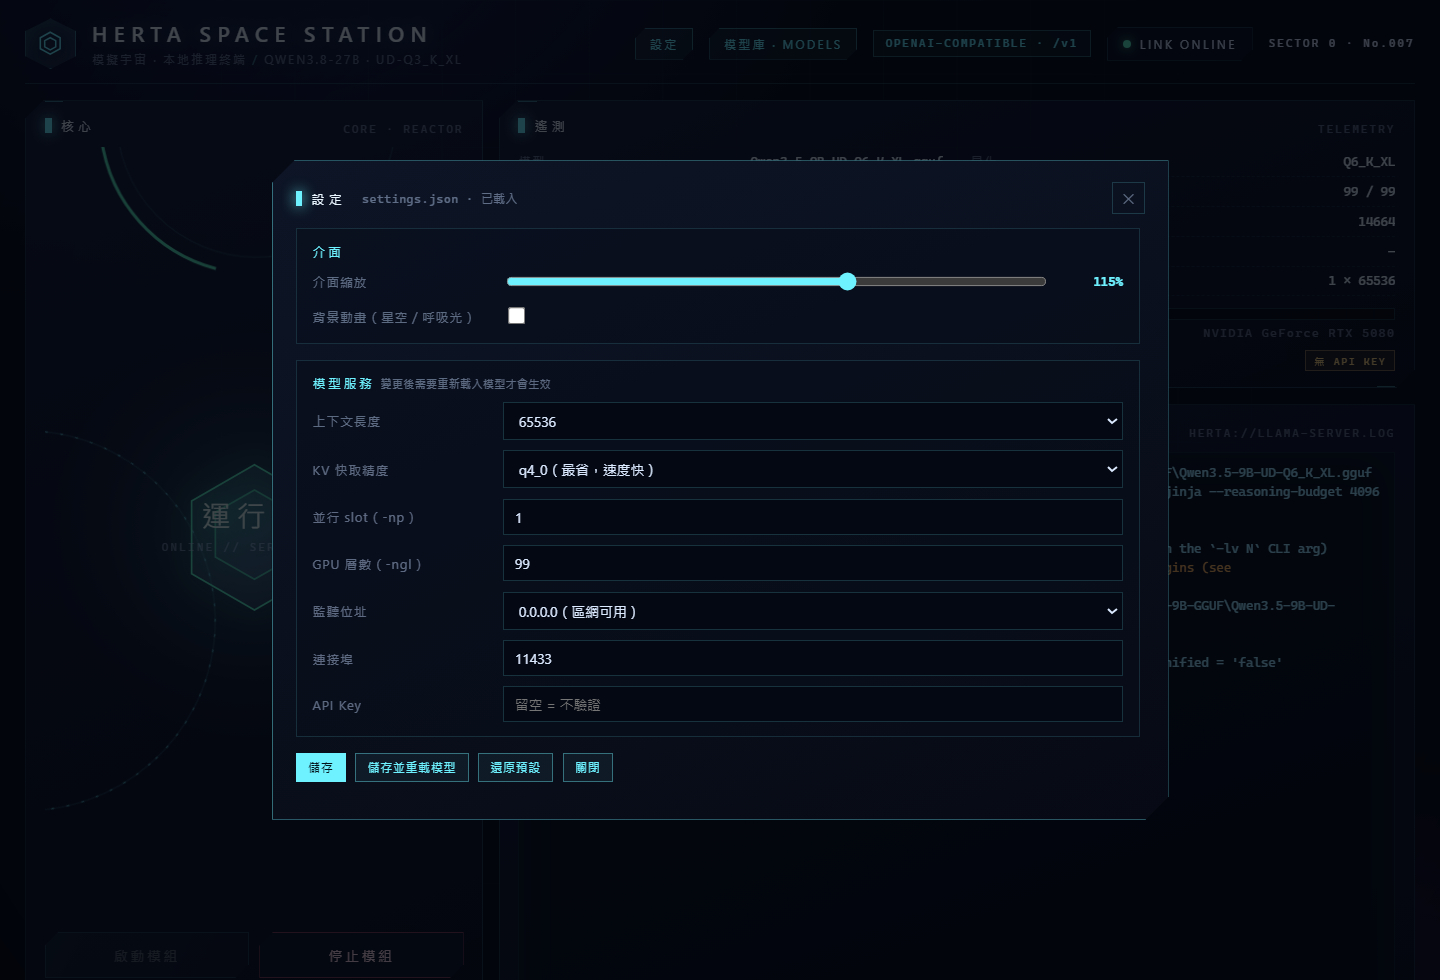
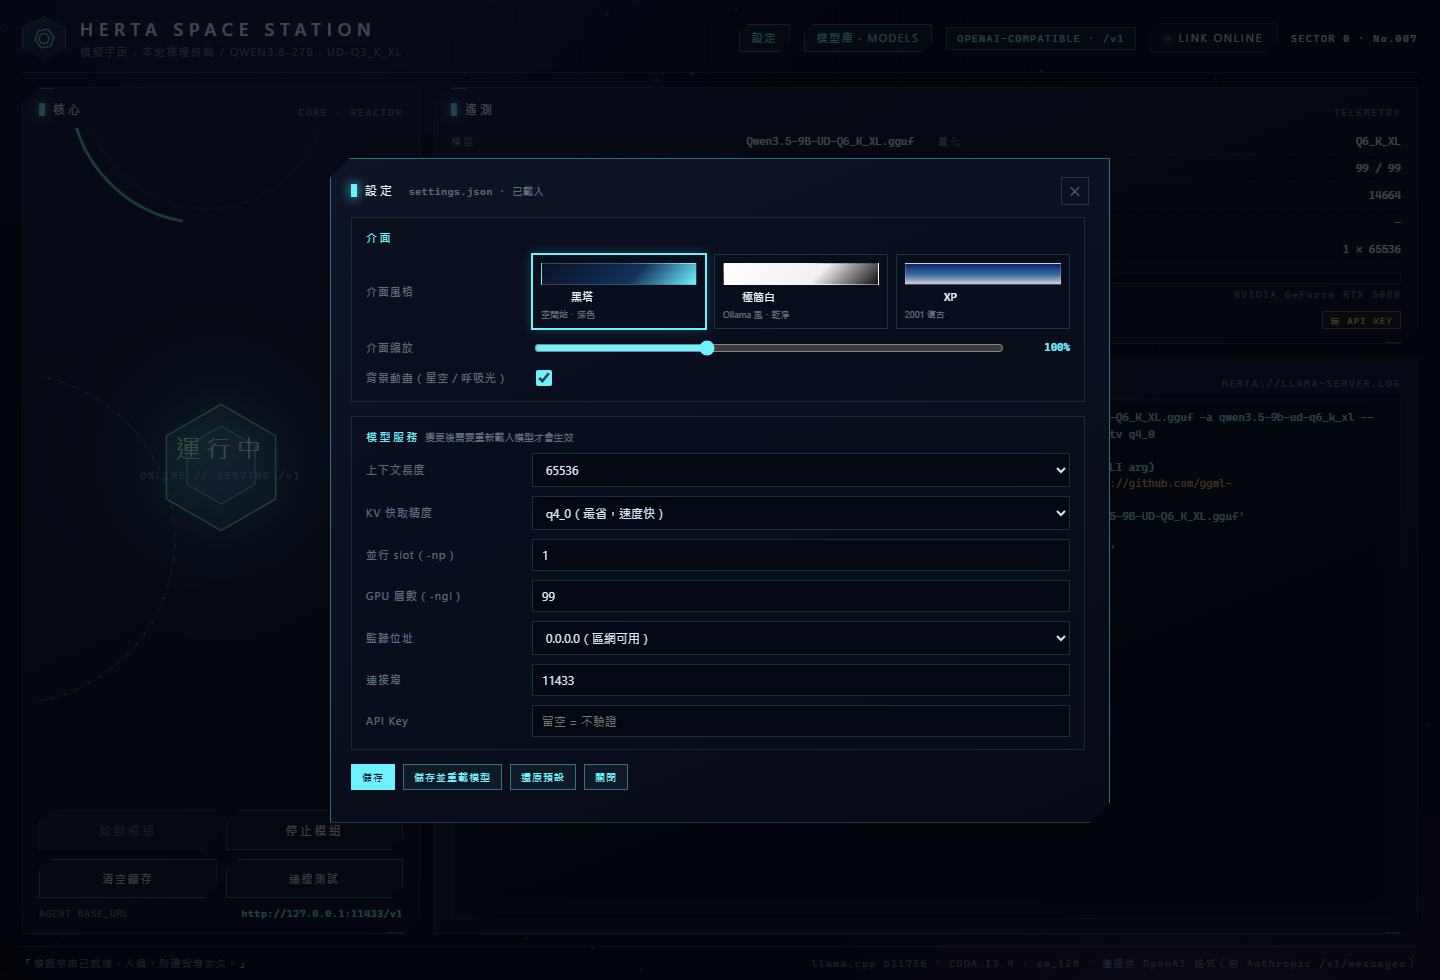
Add UI themes: Herta (default), minimal white (Ollama-like) and Windows XP
- settings.ui.theme persisted and validated (herta | ollama | xp)
- theme picker cards in 設定 → 介面風格, applied live as body classes
- full CSS skin per theme: panels, buttons, tabs, tables, modals, log, chips,
  contrast fixes for the two light skins

diff --git a/ui.html b/ui.html
@@ -1,4 +1,4 @@
-<!doctype html>
+<!doctype html>
 <html lang="zh-Hant">
 <head>
 <meta charset="utf-8">
@@ -288,6 +288,193 @@
   .setrow b{width:52px;text-align:right;color:var(--cyan);font-size:11px}
   .setrow input[type=checkbox]{width:16px;height:16px;accent-color:#6ff2ff}
   .setactions{display:flex;gap:8px;flex-wrap:wrap}
+
+  /* ---------- theme picker ---------- */
+  .themeGrid{display:flex;gap:8px;flex:1}
+  .themeCard{flex:1;display:flex;flex-direction:column;align-items:flex-start;gap:4px;padding:8px;
+    border:1px solid var(--line);background:rgba(8,14,26,.6);cursor:pointer;font-family:inherit}
+  .themeCard b{font-size:11px;color:#eaf7ff;font-weight:500;white-space:nowrap;overflow:hidden;text-overflow:ellipsis;max-width:100%}
+  .themeCard small{font-size:9px;color:var(--dim);white-space:nowrap;overflow:hidden;text-overflow:ellipsis;max-width:100%}
+  .themeCard .sw{width:100%;height:22px;display:block;border:1px solid rgba(255,255,255,.18)}
+  .sw-herta{background:linear-gradient(135deg,#0a1226,#12315c 60%,#6ff2ff)}
+  .sw-ollama{background:linear-gradient(135deg,#ffffff,#f1f1f3 60%,#111111)}
+  .sw-xp{background:linear-gradient(180deg,#0a246a,#3a6ea5 55%,#d4d0c8)}
+  .themeCard.active{outline:1px solid var(--cyan);border-color:var(--cyan);box-shadow:0 0 12px rgba(111,242,255,.25)}
+
+  /* ================= theme: ollama (light, minimal) ================= */
+  body.theme-ollama{background:#f7f7f8;color:#1f2328;font-family:Inter,"Segoe UI",system-ui,sans-serif}
+  body.theme-ollama #stars,body.theme-ollama .grid-overlay,body.theme-ollama .vignette{display:none}
+  body.theme-ollama header{border-bottom:1px solid #e5e5e5}
+  body.theme-ollama h1{color:#111;text-shadow:none;letter-spacing:.18em}
+  body.theme-ollama .brand p,body.theme-ollama .row .k,body.theme-ollama .panel-head .mono,
+  body.theme-ollama .hintline,body.theme-ollama .empty,body.theme-ollama footer,body.theme-ollama .core-label .sub{color:#6b7280}
+  body.theme-ollama .sigil{border-color:#d9d9de;background:#fff;box-shadow:none}
+  body.theme-ollama .panel{background:#fff;border:1px solid #e6e6e9;border-radius:14px;clip-path:none;box-shadow:0 1px 2px rgba(16,24,40,.06)}
+  body.theme-ollama .panel::before,body.theme-ollama .panel::after{display:none}
+  body.theme-ollama .tag{color:#111}
+  body.theme-ollama .tag::before{background:#111;box-shadow:none}
+  body.theme-ollama .badge,body.theme-ollama .libbtn{color:#374151;border-color:#d7d7dc;background:#fafafa}
+  body.theme-ollama .libbtn:hover{background:#f0f0f2;box-shadow:none}
+  body.theme-ollama .btn{background:#fff;border:1px solid #d7d7dc;border-radius:10px;clip-path:none;color:#1f2328}
+  body.theme-ollama .btn:hover:not(:disabled){background:#f5f5f6;box-shadow:none;transform:none}
+  body.theme-ollama .btn.primary{background:#111;border-color:#111;color:#fff}
+  body.theme-ollama .btn.danger{color:#b42318;border-color:#f0c9c5}
+  body.theme-ollama .btn.ghost{color:#374151}
+  body.theme-ollama .row{border-bottom:1px solid #efeff1}
+  body.theme-ollama .row .v{color:#111}
+  body.theme-ollama .vram .bar{background:#f1f1f3;border-color:#e6e6e9}
+  body.theme-ollama .vram .fill{background:linear-gradient(90deg,#111,#666)}
+  body.theme-ollama .vram .ticks{display:none}
+  body.theme-ollama .log{background:#fff;border:1px solid #ececef;color:#374151;box-shadow:none}
+  body.theme-ollama .log .w{color:#b45309}body.theme-ollama .log .e{color:#b42318}body.theme-ollama .log .ok{color:#067647}
+  body.theme-ollama .core-label .state{color:#111;text-shadow:none}
+  body.theme-ollama .core-label .tick{color:#b45309}
+  body.theme-ollama .ring{stroke:#e3e3e8}body.theme-ollama .ring.arc{stroke:#111}body.theme-ollama .ring.arc2{stroke:#9ca3af}
+  body.theme-ollama .ring.dash{stroke:#c9c9d0}
+  body.theme-ollama .hex{stroke:#111;fill:rgba(0,0,0,.02);filter:none}
+  body.theme-ollama .chip .dot{background:#9ca3af}
+  body.theme-ollama .modal{background:rgba(15,23,42,.28)}
+  body.theme-ollama .modal-card{background:#fff;border:1px solid #e6e6e9;clip-path:none;border-radius:16px;box-shadow:0 20px 60px rgba(16,24,40,.18)}
+  body.theme-ollama .modal-head .dir{color:#6b7280}
+  body.theme-ollama .modal-head .x{color:#6b7280;border-color:#e6e6e9}
+  body.theme-ollama .tabs{border-bottom:1px solid #ececef}
+  body.theme-ollama .tab{color:#6b7280;letter-spacing:.12em}
+  body.theme-ollama .tab.active{color:#111;border-color:#111;background:#f3f3f5}
+  body.theme-ollama .chip2{color:#374151;border-color:#dcdce1;background:#fff}
+  body.theme-ollama .chip2.active{color:#fff;background:#111;border-color:#111}
+  body.theme-ollama .searchbar input,body.theme-ollama .setrow input[type=number],
+  body.theme-ollama .setrow input[type=text],body.theme-ollama .setrow select{background:#fff;border-color:#dcdce1;color:#111}
+  body.theme-ollama .mhead{background:#fff;color:#6b7280;border-bottom:1px solid #ececef}
+  body.theme-ollama .mtr{background:#fff;border-color:#ececef}
+  body.theme-ollama .mtr:hover{background:#fafafa;border-color:#dcdce1}
+  body.theme-ollama .c-name{color:#111}body.theme-ollama .c-num{color:#374151}
+  body.theme-ollama .mfit{color:#374151;border-color:#dcdce1}
+  body.theme-ollama .mfit.ok{color:#067647;border-color:#abefc6}
+  body.theme-ollama .mfit.tight{color:#b54708;border-color:#f9dbaf}
+  body.theme-ollama .mfit.over{color:#b42318;border-color:#f0c9c5}
+  body.theme-ollama .mini{color:#1f2328;border-color:#d7d7dc;background:#fff}
+  body.theme-ollama .mini.use{color:#fff;background:#111;border-color:#111}
+  body.theme-ollama .reco{background:#fafafa;border-color:#e6e6e9}
+  body.theme-ollama .reco-head .rt{color:#111}
+  body.theme-ollama .pick{background:#fff;border-color:#e6e6e9}
+  body.theme-ollama .pick.primary{border-color:#111;background:#f7f7f8}
+  body.theme-ollama .pick .tier{color:#6b7280}body.theme-ollama .pick.primary .tier{color:#111}
+  body.theme-ollama .pick b{color:#111}body.theme-ollama .pick span{color:#6b7280}
+  body.theme-ollama .setgroup{background:#fbfbfc;border-color:#ececef}
+  body.theme-ollama .settitle{color:#111}
+  body.theme-ollama .setrow>span{color:#6b7280}
+  body.theme-ollama .toast{background:#fff;border-color:#e6e6e9;color:#111;box-shadow:0 12px 36px rgba(16,24,40,.16)}
+  body.theme-ollama footer{border-top:1px solid #ececef}
+  body.theme-ollama .dlbars{background:#f1f1f3;border-color:#e6e6e9}
+  body.theme-ollama .dlbars>.fill{background:#111}
+  body.theme-ollama .themeCard{border-color:#e6e6e9;background:#fff}
+  body.theme-ollama .themeCard b{color:#111}body.theme-ollama .themeCard small{color:#6b7280}
+  body.theme-ollama .themeCard.active{outline-color:#111;border-color:#111;box-shadow:none}
+
+  /* ================= theme: windows xp ================= */
+  body.theme-xp{background:linear-gradient(180deg,#12408f,#2f6ec4 38%,#5b9bd5);color:#000;
+    font-family:Tahoma,"MS Sans Serif",Arial,sans-serif}
+  body.theme-xp #stars,body.theme-xp .grid-overlay,body.theme-xp .vignette{display:none}
+  body.theme-xp header{border-bottom:2px groove #ffffff}
+  body.theme-xp h1{color:#fff;text-shadow:1px 1px 0 #000;font-size:17px;letter-spacing:.08em}
+  body.theme-xp .brand p,body.theme-xp footer{color:#e8f0ff}
+  body.theme-xp .sigil{background:#d4d0c8;border:2px solid;border-color:#fff #404040 #404040 #fff;clip-path:none;box-shadow:none}
+  body.theme-xp .sigil svg{stroke:#003399;animation:none}
+  body.theme-xp .panel{background:#d4d0c8;border:2px solid;border-color:#fff #404040 #404040 #fff;
+    border-radius:0;clip-path:none;box-shadow:1px 1px 0 #808080}
+  body.theme-xp .panel::before,body.theme-xp .panel::after{display:none}
+  body.theme-xp .panel-head{margin:-14px -16px 10px;padding:4px 8px;background:linear-gradient(180deg,#0a246a,#3a6ea5 70%,#4f8ad8);border-bottom:1px solid #092a63}
+  body.theme-xp .tag{color:#fff;letter-spacing:.12em}
+  body.theme-xp .tag::before{background:#fff;box-shadow:none;width:4px;height:12px}
+  body.theme-xp .panel-head .mono{color:#cfe0ff}
+  body.theme-xp .row{border-bottom:1px dotted #808080}
+  body.theme-xp .row .k,body.theme-xp .row .v{color:#000}
+  body.theme-xp .btn{background:#d4d0c8;border:2px solid;border-color:#fff #404040 #404040 #fff;border-radius:0;
+    clip-path:none;color:#000;font-family:Tahoma;font-size:12px;letter-spacing:0}
+  body.theme-xp .btn:hover:not(:disabled){background:#e4e1db;box-shadow:none;transform:none}
+  body.theme-xp .btn:active:not(:disabled){border-color:#404040 #fff #fff #404040}
+  body.theme-xp .btn.primary{background:#d4d0c8;color:#000;border-color:#fff #404040 #404040 #fff}
+  body.theme-xp .btn.danger{color:#800000}
+  body.theme-xp .btn.ghost{color:#000}
+  body.theme-xp .libbtn{background:#d4d0c8;border:2px solid;border-color:#fff #404040 #404040 #fff;border-radius:0;clip-path:none;color:#000}
+  body.theme-xp .libbtn:hover{box-shadow:none;background:#e4e1db}
+  body.theme-xp .badge{background:#ece9d8;border:1px solid #808080;color:#000}
+  body.theme-xp .chip{background:#ece9d8;border:1px solid #808080;color:#000}
+  body.theme-xp .vram .bar{background:#fff;border:2px inset #808080}
+  body.theme-xp .vram .fill{background:#0a246a}
+  body.theme-xp .vram .ticks{display:none}
+  body.theme-xp .log{background:#fff;color:#000;border:2px inset #808080;font-family:"Courier New",monospace;box-shadow:none}
+  body.theme-xp .log .w{color:#8a4b00}body.theme-xp .log .e{color:#a80000}body.theme-xp .log .ok{color:#006400}
+  body.theme-xp .core-label .state{color:#003399;text-shadow:none}
+  body.theme-xp .core-label .sub,body.theme-xp .core-label .tick{color:#000}
+  body.theme-xp .ring{stroke:#9a9a9a}body.theme-xp .ring.arc{stroke:#0a246a}body.theme-xp .ring.arc2{stroke:#2a5f9e}
+  body.theme-xp .ring.dash{stroke:#666}
+  body.theme-xp .hex{stroke:#003399;fill:#ece9d8;filter:none}
+  body.theme-xp .modal{background:rgba(0,0,0,.35)}
+  body.theme-xp .modal-card{background:#d4d0c8;border:2px solid;border-color:#fff #404040 #404040 #fff;
+    border-radius:0;clip-path:none;box-shadow:2px 2px 0 #000}
+  body.theme-xp .modal-head{margin:-18px -20px 8px;padding:5px 8px;
+    background:linear-gradient(180deg,#0a246a,#3a6ea5 70%,#4f8ad8);color:#fff}
+  body.theme-xp .modal-head .tag{color:#fff}
+  body.theme-xp .modal-head .dir{color:#cfe0ff}
+  body.theme-xp .modal-head .x{background:#d4d0c8;border:2px solid;border-color:#fff #404040 #404040 #fff;color:#000;border-radius:0}
+  body.theme-xp .tabs{border-bottom:1px solid #808080}
+  body.theme-xp .tab{color:#000;border:1px solid transparent;border-radius:0;background:none;letter-spacing:.08em}
+  body.theme-xp .tab.active{background:#ece9d8;border:1px solid #808080;border-bottom-color:#ece9d8}
+  body.theme-xp .chip2{background:#d4d0c8;border:2px solid;border-color:#fff #404040 #404040 #fff;color:#000;border-radius:0}
+  body.theme-xp .chip2.active{background:#0a246a;color:#fff;border-color:#092a63 #6f9bd6 #6f9bd6 #092a63}
+  body.theme-xp .searchbar input,body.theme-xp .setrow input[type=number],
+  body.theme-xp .setrow input[type=text],body.theme-xp .setrow select{background:#fff;border:2px inset #808080;color:#000;border-radius:0}
+  body.theme-xp .mhead{background:#ece9d8;color:#000;border-bottom:1px solid #808080}
+  body.theme-xp .mtr{background:#ece9d8;border:1px solid #9a9a9a}
+  body.theme-xp .mtr:hover{background:#f5f3ea;border-color:#003399}
+  body.theme-xp .c-name,body.theme-xp .c-num{color:#000}
+  body.theme-xp .mfit{background:#fff;border:1px solid #808080;color:#000}
+  body.theme-xp .mini{background:#d4d0c8;border:2px solid;border-color:#fff #404040 #404040 #fff;color:#000;border-radius:0}
+  body.theme-xp .mini.use{background:#0a246a;color:#fff;border-color:#092a63 #6f9bd6 #6f9bd6 #092a63}
+  body.theme-xp .reco{background:#ece9d8;border:2px solid;border-color:#fff #404040 #404040 #fff}
+  body.theme-xp .reco-head .rt{color:#003399}
+  body.theme-xp .pick{background:#fff;border:1px solid #808080}
+  body.theme-xp .pick.primary{background:#fffbe6;border:2px solid #003399}
+  body.theme-xp .pick b{color:#000}body.theme-xp .pick span{color:#444}
+  body.theme-xp .pick .tier,body.theme-xp .pick.primary .tier{color:#003399}
+  body.theme-xp .setgroup{background:#ece9d8;border:2px solid;border-color:#fff #404040 #404040 #fff}
+  body.theme-xp .settitle{color:#003399}
+  body.theme-xp .setrow>span{color:#000}
+  body.theme-xp .toast{background:#ffffe1;border:1px solid #000;color:#000;border-radius:0;box-shadow:2px 2px 0 #808080}
+  body.theme-xp footer{border-top:2px groove #fff}
+  body.theme-xp .dlbars{background:#fff;border:2px inset #808080}
+  body.theme-xp .dlbars>.fill{background:#0a246a}
+  body.theme-xp .themeCard{background:#d4d0c8;border:2px solid;border-color:#fff #404040 #404040 #fff}
+  body.theme-xp .themeCard b{color:#000}body.theme-xp .themeCard small{color:#404040}
+  body.theme-xp .themeCard.active{outline:1px solid #003399;border-color:#003399;box-shadow:none}
+  body.theme-xp .reco-actions .mini,body.theme-xp .setactions .mini{font-family:Tahoma}
+
+  /* shared contrast fixes for the light themes */
+  body.theme-ollama .chip{background:#f3f3f5;border-color:#dcdce1;color:#374151}
+  body.theme-ollama .chip.on .dot{background:#067647;color:#067647}
+  body.theme-ollama .vram .legend{color:#6b7280}
+  body.theme-ollama .vram .legend b{color:#111}
+  body.theme-ollama .hint{color:#6b7280}
+  body.theme-ollama .hint b{color:#111}
+  body.theme-ollama .core-label .sub,body.theme-ollama .core-label .tick{color:#6b7280}
+  body.theme-ollama .keybadge{color:#b45309;border-color:#eadcba}
+  body.theme-ollama .row .k{color:#6b7280}
+
+  body.theme-xp .chip{background:#ece9d8;border:1px solid #808080;color:#000}
+  body.theme-xp .chip .dot{background:#006400;color:#006400}
+  body.theme-xp .vram .legend{color:#000}
+  body.theme-xp .vram .legend b{color:#000}
+  body.theme-xp .hint{color:#000}
+  body.theme-xp .hint b{color:#003399}
+  body.theme-xp .core-label .sub,body.theme-xp .core-label .tick{color:#000}
+  body.theme-xp .keybadge{color:#000;border-color:#808080;background:#ece9d8}
+  body.theme-xp .row .k{color:#000}
+  body.theme-xp .btn:disabled{color:#808080}
+  body.theme-xp .lanrow{color:#000}
+  body.theme-xp .lanrow .lanlabel{color:#003399}
+  body.theme-ollama .lanrow{color:#374151}
+  body.theme-ollama .lanrow .lanlabel{color:#111}
   .mini{font-size:10px;letter-spacing:.1em;padding:5px 10px;cursor:pointer;font-family:inherit;
         color:var(--cyan);border:1px solid rgba(111,242,255,.4);background:rgba(111,242,255,.06)}
   .mini:hover{background:rgba(111,242,255,.16)}
@@ -476,6 +663,13 @@
     <div class="setwrap">
       <div class="setgroup">
         <div class="settitle">介面</div>
+        <div class="setrow"><span>介面風格</span>
+          <div class="themeGrid">
+            <button class="themeCard" data-theme="herta"><i class="sw sw-herta"></i><b>黑塔</b><small>空間站・深色</small></button>
+            <button class="themeCard" data-theme="ollama"><i class="sw sw-ollama"></i><b>極簡白</b><small>Ollama 風・乾淨</small></button>
+            <button class="themeCard" data-theme="xp"><i class="sw sw-xp"></i><b>XP</b><small>2001 復古</small></button>
+          </div>
+        </div>
         <label class="setrow"><span>介面縮放</span>
           <input type="range" id="setScale" min="80" max="135" step="5">
           <b class="mono" id="setScaleVal">100%</b>
@@ -1010,16 +1204,26 @@ buildChips("fQuant", QUANT_BUCKETS, "quant");
 })();
 
 /* ---------- settings ---------- */
-const SET = { current: null, defaults: null };
+const SET = { current: null, defaults: null, theme: "herta" };
+const THEME_IDS = ["herta", "ollama", "xp"];
 
 function applyUi(s) {
   if (!s || !s.ui) return;
+  const t = THEME_IDS.includes(s.ui.theme) ? s.ui.theme : "herta";
+  THEME_IDS.forEach(x => document.body.classList.remove("theme-" + x));
+  document.body.classList.add("theme-" + t);
   document.body.style.zoom = s.ui.scale;
   document.body.classList.toggle("no-anim", !s.ui.animations);
 }
 
+function markThemeCard(theme) {
+  document.querySelectorAll(".themeCard").forEach(c => c.classList.toggle("active", c.dataset.theme === theme));
+}
+
 function fillSettings(s) {
   const ui = s.ui || {}, srv = s.server || {};
+  SET.theme = THEME_IDS.includes(ui.theme) ? ui.theme : "herta";
+  markThemeCard(SET.theme);
   $("setScale").value = Math.round((ui.scale || 1) * 100);
   $("setScaleVal").textContent = Math.round((ui.scale || 1) * 100) + "%";
   $("setAnim").checked = !!ui.animations;
@@ -1045,7 +1249,11 @@ function collectSettings() {
   const sel = $("setCtx").value;
   const ctx = sel === "0" ? parseInt($("setCtxCustom").value || "65536", 10) : parseInt(sel, 10);
   return {
-    ui: { scale: parseInt($("setScale").value, 10) / 100, animations: $("setAnim").checked },
+    ui: {
+      theme: SET.theme,
+      scale: parseInt($("setScale").value, 10) / 100,
+      animations: $("setAnim").checked,
+    },
     server: {
       ctx: ctx,
       ctk: $("setKv").value,
@@ -1105,6 +1313,19 @@ $("setScale").addEventListener("input", e => {
   const v = parseInt(e.target.value, 10);
   $("setScaleVal").textContent = v + "%";
   document.body.style.zoom = v / 100;
+});
+document.querySelectorAll(".themeCard").forEach(card => {
+  card.onclick = () => {
+    SET.theme = card.dataset.theme;
+    markThemeCard(SET.theme);
+    applyUi({
+      ui: {
+        theme: SET.theme,
+        scale: parseInt($("setScale").value, 10) / 100,
+        animations: $("setAnim").checked,
+      },
+    });
+  };
 });
 $("setCtx").addEventListener("change", e => {
   $("setCtxCustom").style.display = e.target.value === "0" ? "" : "none";

diff --git a/settings.py b/settings.py
@@ -18,6 +18,7 @@ SETTINGS_FILE = os.path.join(DATA_DIR, "settings.json")
 
 DEFAULTS = {
     "ui": {
+        "theme": "herta",      # herta | ollama | xp
         "scale": 1.0,          # 0.8 … 1.35, applied as CSS zoom
         "animations": True,    # starfield / pulsing highlights
     },
@@ -35,6 +36,7 @@ DEFAULTS = {
 
 KV_TYPES = {"f16", "q8_0", "q5_1", "q5_0", "q4_1", "q4_0"}
 BINDS = {"0.0.0.0", "127.0.0.1"}
+THEMES = {"herta", "ollama", "xp"}
 
 
 def _merge(base, patch):
@@ -64,7 +66,8 @@ def validate(data):
         scale = float(ui.get("scale", DEFAULTS["ui"]["scale"]))
     except (TypeError, ValueError):
         scale = DEFAULTS["ui"]["scale"]
-    ui = {"scale": round(max(0.8, min(1.35, scale)), 2),
+    ui = {"theme": str(ui.get("theme", "herta")) if str(ui.get("theme", "herta")) in THEMES else "herta",
+          "scale": round(max(0.8, min(1.35, scale)), 2),
           "animations": bool(ui.get("animations", True))}
 
     ctk = str(srv.get("ctk", DEFAULTS["server"]["ctk"]))

diff --git a/README.md b/README.md
@@ -33,12 +33,25 @@ Click **設定** in the header (or open `http://127.0.0.1:8899/#settings`).
 
 | Group | Fields |
 | --- | --- |
-| 介面 | UI zoom (80–135 %, previewed live as CSS zoom), background animation on/off |
+| 介面 | **theme** (黑塔 / 極簡白 / Windows XP), UI zoom (80–135 %, previewed live as CSS zoom), background animation on/off |
 | 模型服務 | context length, KV cache precision (f16 / q8_0 / q5_1 / q4_0), parallel slots (`-np`), GPU layers (`-ngl`), bind address, port, API key |
 
 - Everything is stored in `settings.json` next to the EXE; the panel wins over the environment variables, which stay as first-run defaults.
 - Changing anything under 模型服務 needs a model reload — the panel says so and offers **儲存並重載模型**.
 - **還原預設** writes the built-in defaults back.
+### Themes
+
+Three skins, picked in 設定 → 介面風格, applied instantly and stored in settings.json:
+
+| Theme | Look |
+| --- | --- |
+| **黑塔** (default) | dark space station, neon cyan/violet, starfield, reactor core |
+| **極簡白** | white cards, grey hairlines, black accents — the Ollama-style minimal look |
+| **Windows XP** | XP blue gradient desktop, grey 3-D panels, gradient title bars, Tahoma, beveled buttons |
+
+![Extreme minimal theme](docs/theme-ollama.png)
+![Windows XP theme](docs/theme-xp.png)
+
 
 ## Model library
 
